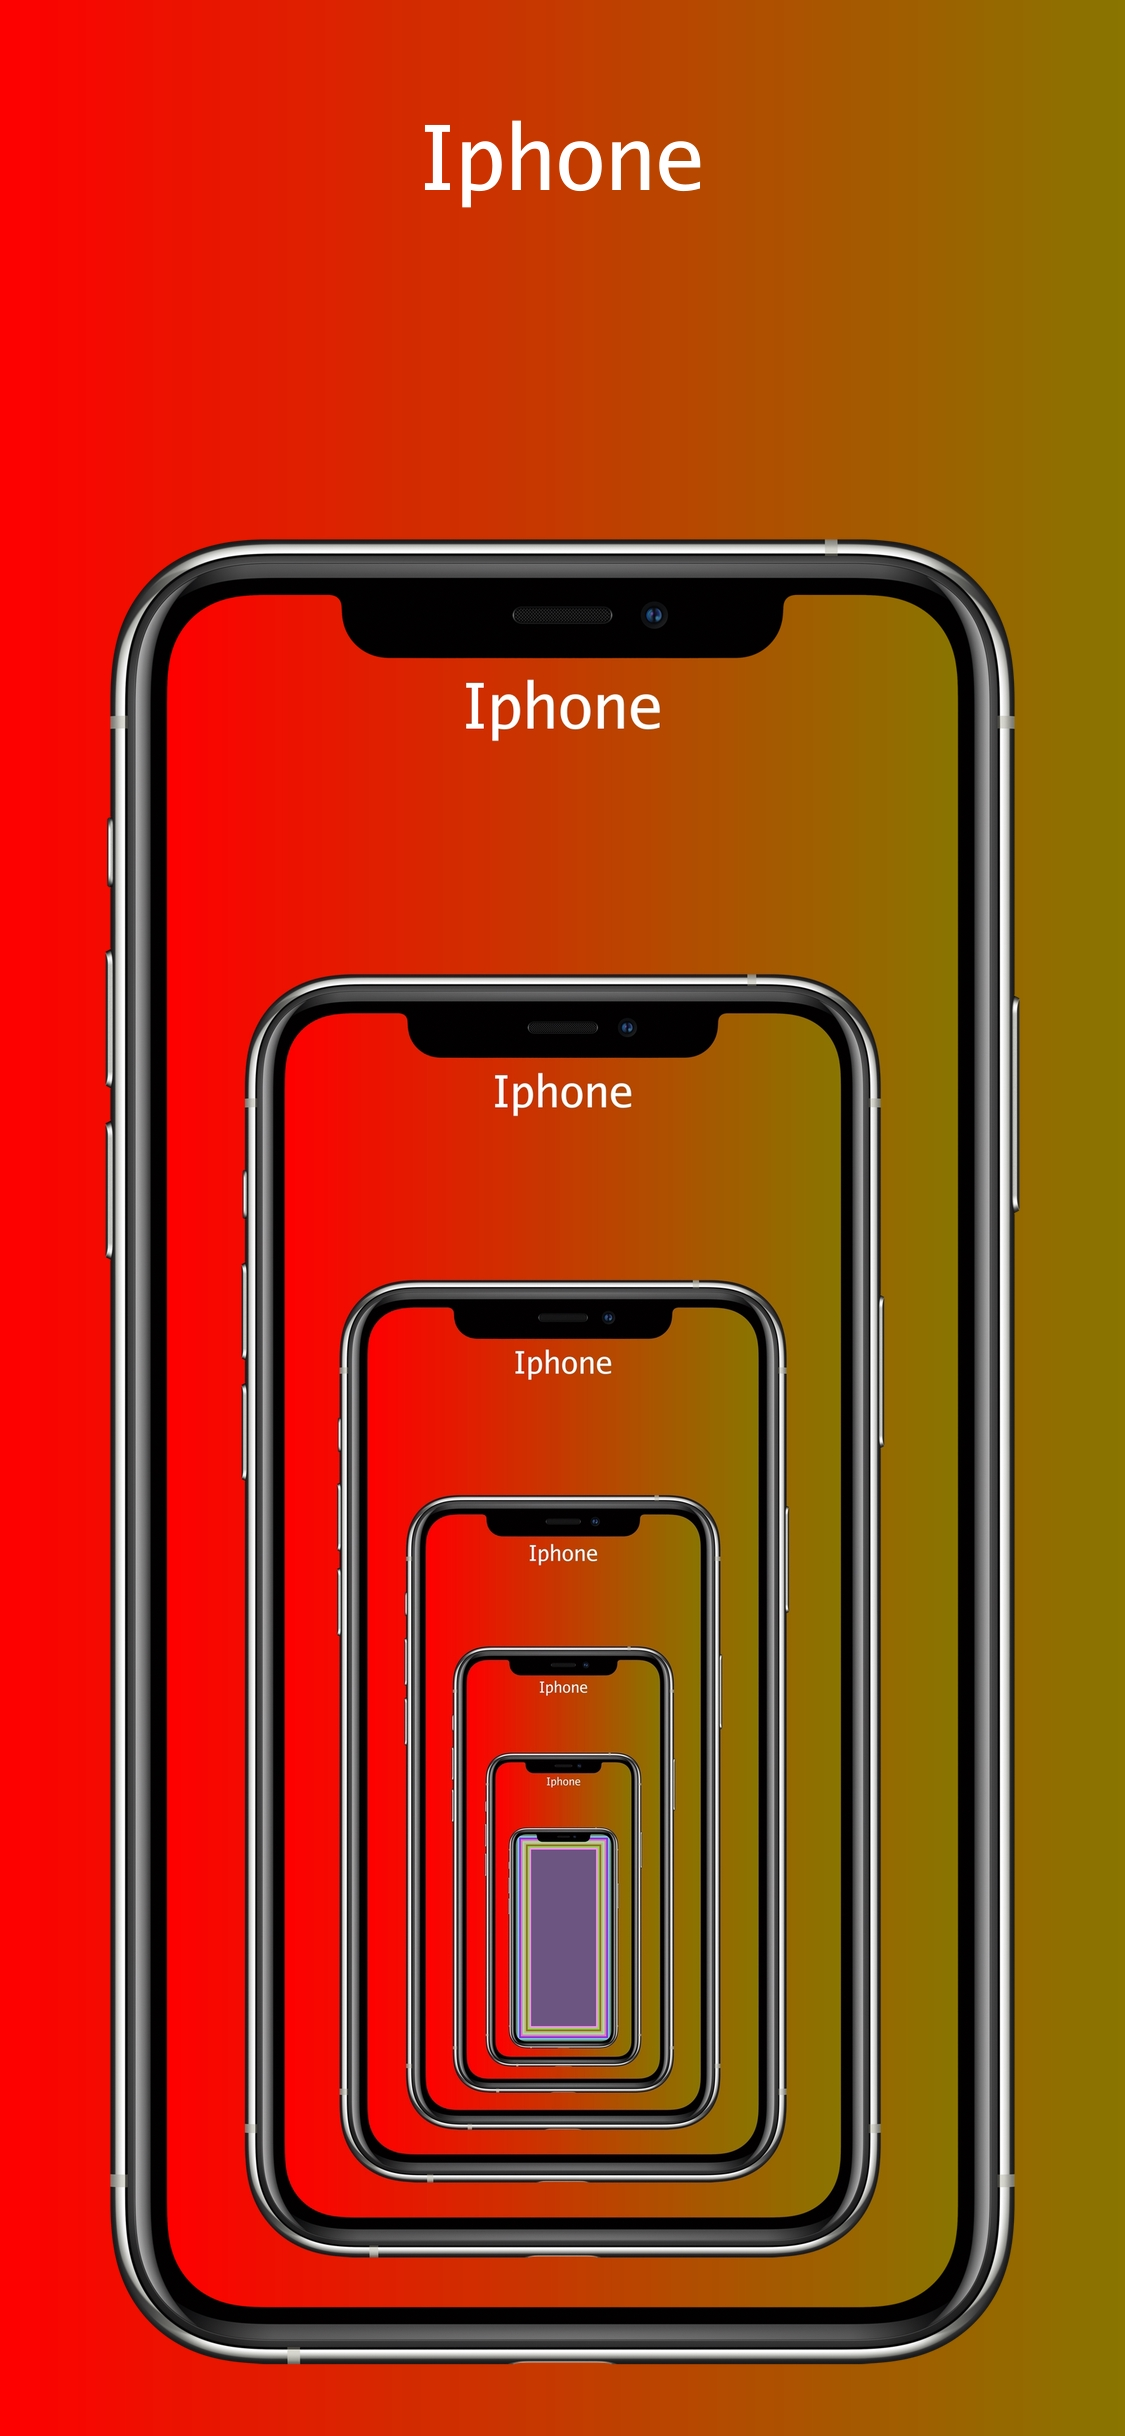
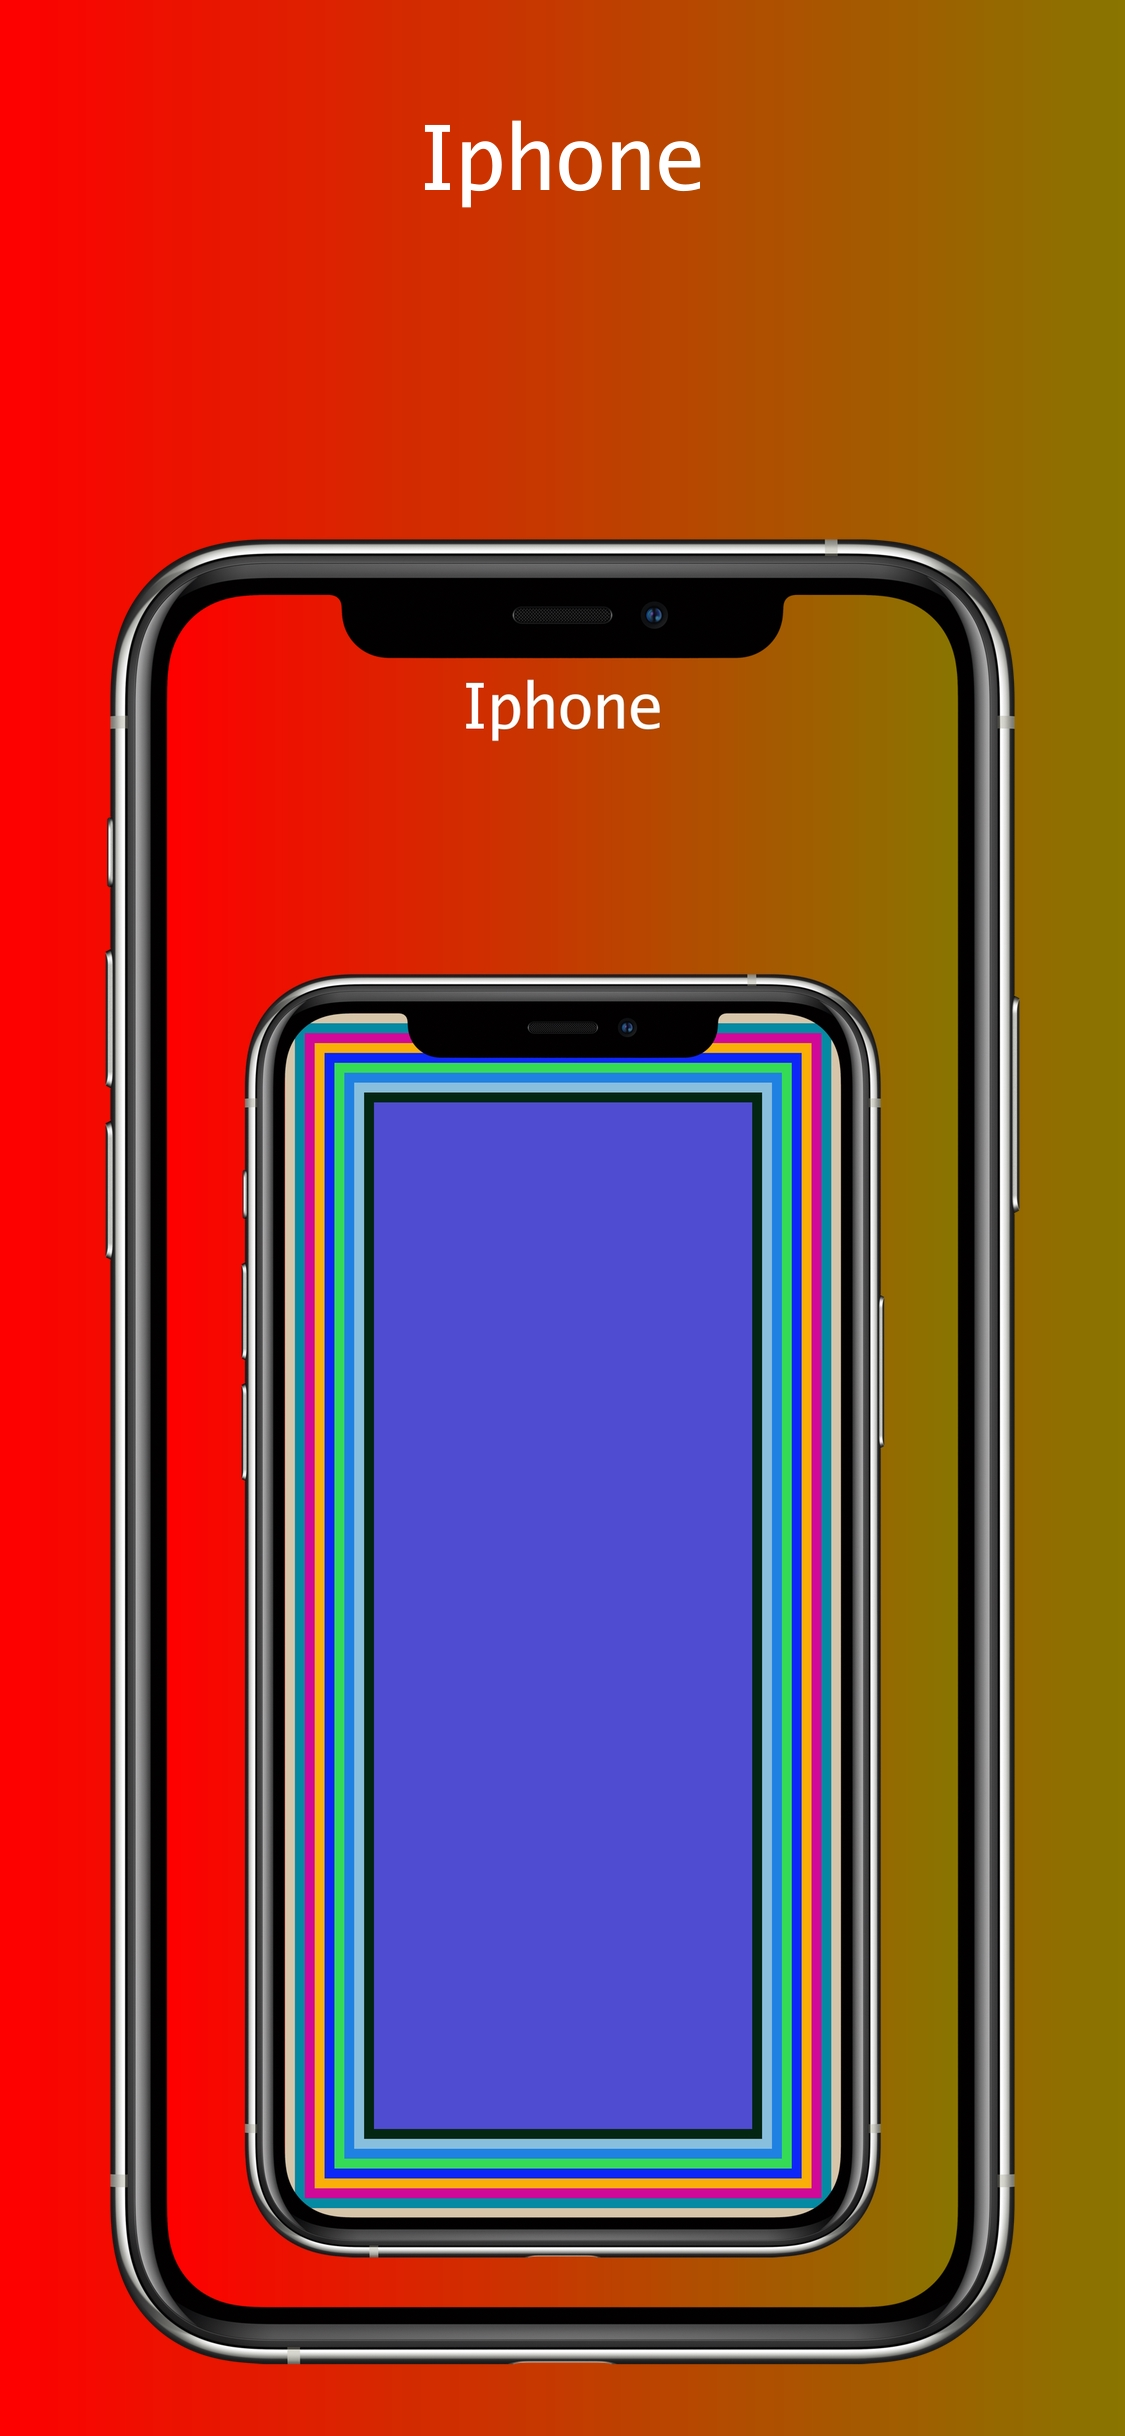
creating image collage

Changed region(s): [[0.2489, 0.4056, 0.7467, 0.936]]

diff --git a/core/merge.go b/core/merge.go
@@ -2,19 +2,18 @@ package core
 
 import (
 	"errors"
+	"fmt"
+	"github.com/disintegration/imaging"
+	"github.com/fogleman/imview"
 	"image"
 	"image/color"
 	"image/draw"
+	"image/jpeg"
 	"io/ioutil"
-	"log"
 	"math"
 	"os"
 	"path/filepath"
 	"sort"
-	"strconv"
-	"time"
-	"github.com/disintegration/imaging"
-	"github.com/fogleman/imview"
 )
 
 func Width(i image.Image) int {
@@ -58,19 +57,17 @@ type ImagePositionAndSize struct {
 }
 
 const (
-	RectangleShape   ImageShape = "Rectangle"
+	RectangleShape ImageShape = "Rectangle"
 )
 
-
 func (bgImg *MyImage) drawRaw(innerImg image.Image, sp image.Point, width uint, height uint) {
-	resizedImg :=  imaging.Resize(innerImg, int(width), int(height), imaging.Lanczos)
+	resizedImg := imaging.Resize(innerImg, int(width), int(height), imaging.Lanczos)
 	w := int(Width(resizedImg))
 	h := int(Height(resizedImg))
 	draw.Draw(bgImg, image.Rectangle{sp, image.Point{sp.X + w, sp.Y + h}}, resizedImg, image.ZP, draw.Src)
 }
 
-
-func makeImageCollage(desiredWidth int, desiredHeight int, numberOfRows int, shape ImageShape, images ...image.Image) *MyImage {
+func makeImageCollage(desiredWidth int,  numberOfRows int, images ...image.Image) *MyImage {
 
 	sort.Slice(images, func(i, j int) bool {
 		return Height(images[i]) > Height(images[j])
@@ -138,12 +135,12 @@ func makeImageCollage(desiredWidth int, desiredHeight int, numberOfRows int, sha
 		}
 	}
 
-	output := drawImagesOnBackgroundInParallel(numberOfRows, shape, maxWidth, maxHeight, maxNumberOfColumns, imagesMatrix, desiredWidth)
+	output := drawImagesOnBackgroundInParallel(numberOfRows, maxWidth, maxHeight, maxNumberOfColumns, imagesMatrix, desiredWidth)
 
 	return output
 }
 
-func calculateImageStartingPointAndSize(img image.Image, imagesMatrix [][]image.Image, padding int, desiredWidth int, shape ImageShape) (ImagePositionAndSize, error) {
+func calculateImageStartingPointAndSize(img image.Image, imagesMatrix [][]image.Image, padding int, desiredWidth int) (ImagePositionAndSize, error) {
 	sp_y := padding
 	for row := range imagesMatrix {
 		sp_x := padding
@@ -157,7 +154,6 @@ func calculateImageStartingPointAndSize(img image.Image, imagesMatrix [][]image.
 
 			w := uint(originalWidth * resizeFactor)
 			h := uint(originalHeight * resizeFactor)
-
 
 			if imagesMatrix[row][col] == img {
 				return ImagePositionAndSize{image.Point{sp_x, sp_y}, Size{w, h}}, nil
@@ -176,15 +172,15 @@ func calculateImageStartingPointAndSize(img image.Image, imagesMatrix [][]image.
 	return ImagePositionAndSize{image.Point{-1, -1}, Size{0, 0}}, errors.New("Image not found in matrix")
 }
 
-func drawSingleImageOnBackground(img image.Image, imagesMatrix [][]image.Image, padding int, shape ImageShape, desiredWidth int, background *MyImage) {
-	imageDetails, _ := calculateImageStartingPointAndSize(img, imagesMatrix, padding, desiredWidth, shape)
+func drawSingleImageOnBackground(img image.Image, imagesMatrix [][]image.Image, padding int, desiredWidth int, background *MyImage) {
+	imageDetails, _ := calculateImageStartingPointAndSize(img, imagesMatrix, padding, desiredWidth)
 	sp := imageDetails.sp
 	size := imageDetails.size
 
 	background.drawRaw(img, sp, size.width, size.height)
 }
 
-func drawImagesOnBackgroundInParallel(numberOfRows int, shape ImageShape, maxWidth uint, maxHeight uint, maxNumberOfColumns int, imagesMatrix [][]image.Image, desiredWidth int) *MyImage {
+func drawImagesOnBackgroundInParallel(numberOfRows int, maxWidth uint, maxHeight uint, maxNumberOfColumns int, imagesMatrix [][]image.Image, desiredWidth int) *MyImage {
 	padding := 1
 	rectangleEnd := image.Point{int(maxWidth) + (maxNumberOfColumns-1)*padding + 2*padding, int(maxHeight) + (numberOfRows-1)*padding + 2*padding}
 
@@ -192,7 +188,7 @@ func drawImagesOnBackgroundInParallel(numberOfRows int, shape ImageShape, maxWid
 
 	for r := range imagesMatrix {
 		for c := range imagesMatrix[r] {
-			go drawSingleImageOnBackground(imagesMatrix[r][c], imagesMatrix, padding, shape, desiredWidth, &output)
+			go drawSingleImageOnBackground(imagesMatrix[r][c], imagesMatrix, padding, desiredWidth, &output)
 		}
 	}
 
@@ -263,55 +259,24 @@ func loadImagesChannel(dirName string, images chan image.Image, quit chan int, e
 	}
 }
 
-func main() {
-	if len(os.Args) != 6 {
-		log.Fatal("Invalid script call. Should be in format `go run imagecollager.go <Rectangle|Circle> <number of rows> <width> <height>")
-	} else {
-		imageShape := ImageShape(os.Args[1])
-		numberOfRows, errNr := strconv.Atoi(os.Args[2])
-		desiredWidth, errDw := strconv.Atoi(os.Args[3])
-		desiredHeight, errDh := strconv.Atoi(os.Args[4])
+func CreateTestWallpaper(returnFrames []image.Image) {
 
-		if errNr == nil && errDw == nil && errDh == nil && (imageShape == RectangleShape) {
-			readingImagesStart := time.Now()
-			var images []image.Image
-			dirName := os.Args[5]
-
-			imagesChannel := make(chan image.Image)
-			errChannel := make(chan error)
-
-			imagesCount, _ := countFiles(dirName)
-			//loadImages
-			_ = filepath.Walk(dirName, func(path string, info os.FileInfo, e error) error {
-				go loadImageChannelNew(path, info, e, imagesChannel, errChannel)
-				return nil
-			})
-			//while true
-			for {
-				select {
-				case img := <-imagesChannel:
-					images = append(images, img)
-
-					if len(images) == imagesCount {
-						readingImagesDuration := time.Since(readingImagesStart)
-						log.Print(strconv.Itoa(len(images)) + "Images read in " + readingImagesDuration.String())
-
-						makingCollageStart := time.Now()
-
-						output := makeImageCollage(desiredWidth, desiredHeight, numberOfRows, imageShape, images...)
-
-						makingCollageDuration := time.Since(makingCollageStart)
-
-						log.Print("Making image collage took " + makingCollageDuration.String())
-						imview.Show(output.value)
-					}
-				case <-errChannel:
-					log.Fatal("Specified directory with images inside does not exists")
-				}
-			}
-		} else {
-			log.Fatal("No shape or number of rows defined")
-		}
+	output := makeImageCollage(12000, 2, returnFrames...)
+	imview.Show(output.value)
+	f, err := os.Create("./core/frames/samples/test.png")
+	if err != nil {
+		// Handle error
 	}
+	defer f.Close()
 
+	// Specify the quality, between 0-100
+	// Higher is better
+	opt := jpeg.Options{
+		Quality: 100,
+	}
+	err = jpeg.Encode(f, output, &opt)
+	if err != nil {
+		fmt.Println(err)
+
+	}
 }

diff --git a/core/generateSampleImages.go b/core/generateSampleImages.go
@@ -42,49 +42,55 @@ func sampleImage(frame DeviceFrame, path string, wg *sync.WaitGroup) {
 	}
 
 }
+type returnFrame struct {
+	Frame image.Image
+	path  string
+}
 
 func GenerateTestFrames() {
 	files, _ := FilePathWalkDir(filepath.Join("./core/frames/samples"))
-	frames := make(chan returnFrame, len(files)+1)
+	frames := make(chan returnFrame, len(files))
 	var wg sync.WaitGroup
+
 	for _, path := range files {
 		wg.Add(1)
 		go generateTestFrame(path, frames, &wg)
 	}
 
 	wg.Wait()
+	var allFrames []image.Image
+	for {
+		select {
+		case elem := <-frames:
 
-		for {
-			select {
-			case elem := <-frames:
-				f, err := os.Create(elem.path)
-				if err != nil {
-					// Handle error
-				}
-				defer f.Close()
-
-				// Specify the quality, between 0-100
-				// Higher is better
-				opt := jpeg.Options{
-					Quality: 100,
-				}
-				err = jpeg.Encode(f, elem.Frame, &opt)
-				if err != nil {
-					fmt.Println(err)
-
-				}
-			default:
-				return
-				fmt.Println("No value ready, moving on.")
+			f, err := os.Create(elem.path)
+			if err != nil {
+				// Handle error
 			}
+			defer f.Close()
+
+			// Specify the quality, between 0-100
+			// Higher is better
+			opt := jpeg.Options{
+				Quality: 100,
+			}
+			err = jpeg.Encode(f, elem.Frame, &opt)
+			if err != nil {
+				fmt.Println(err)
+			}
+			allFrames = append(allFrames, elem.Frame)
+
+
+		default:
+			fmt.Println("No value ready, moving on.")
+			CreateTestWallpaper(allFrames)
+			return
 		}
+	}
 
 }
 
-type returnFrame struct {
-	Frame image.Image
-	path  string
-}
+
 
 func generateTestFrame(path string, newFrame chan returnFrame, wg *sync.WaitGroup) {
 	defer wg.Done()
@@ -107,7 +113,7 @@ func generateTestFrame(path string, newFrame chan returnFrame, wg *sync.WaitGrou
 func FilePathWalkDir(root string) ([]string, error) {
 	var files []string
 	err := filepath.Walk(root, func(path string, info os.FileInfo, err error) error {
-		if !info.IsDir() && (filepath.Ext(path) == ".png" || filepath.Ext(path) == ".jpeg" || filepath.Ext(path) == ".jpg"){
+		if !info.IsDir() && (filepath.Ext(path) == ".png" || filepath.Ext(path) == ".jpeg" || filepath.Ext(path) == ".jpg") {
 			files = append(files, path)
 		}
 		return nil
